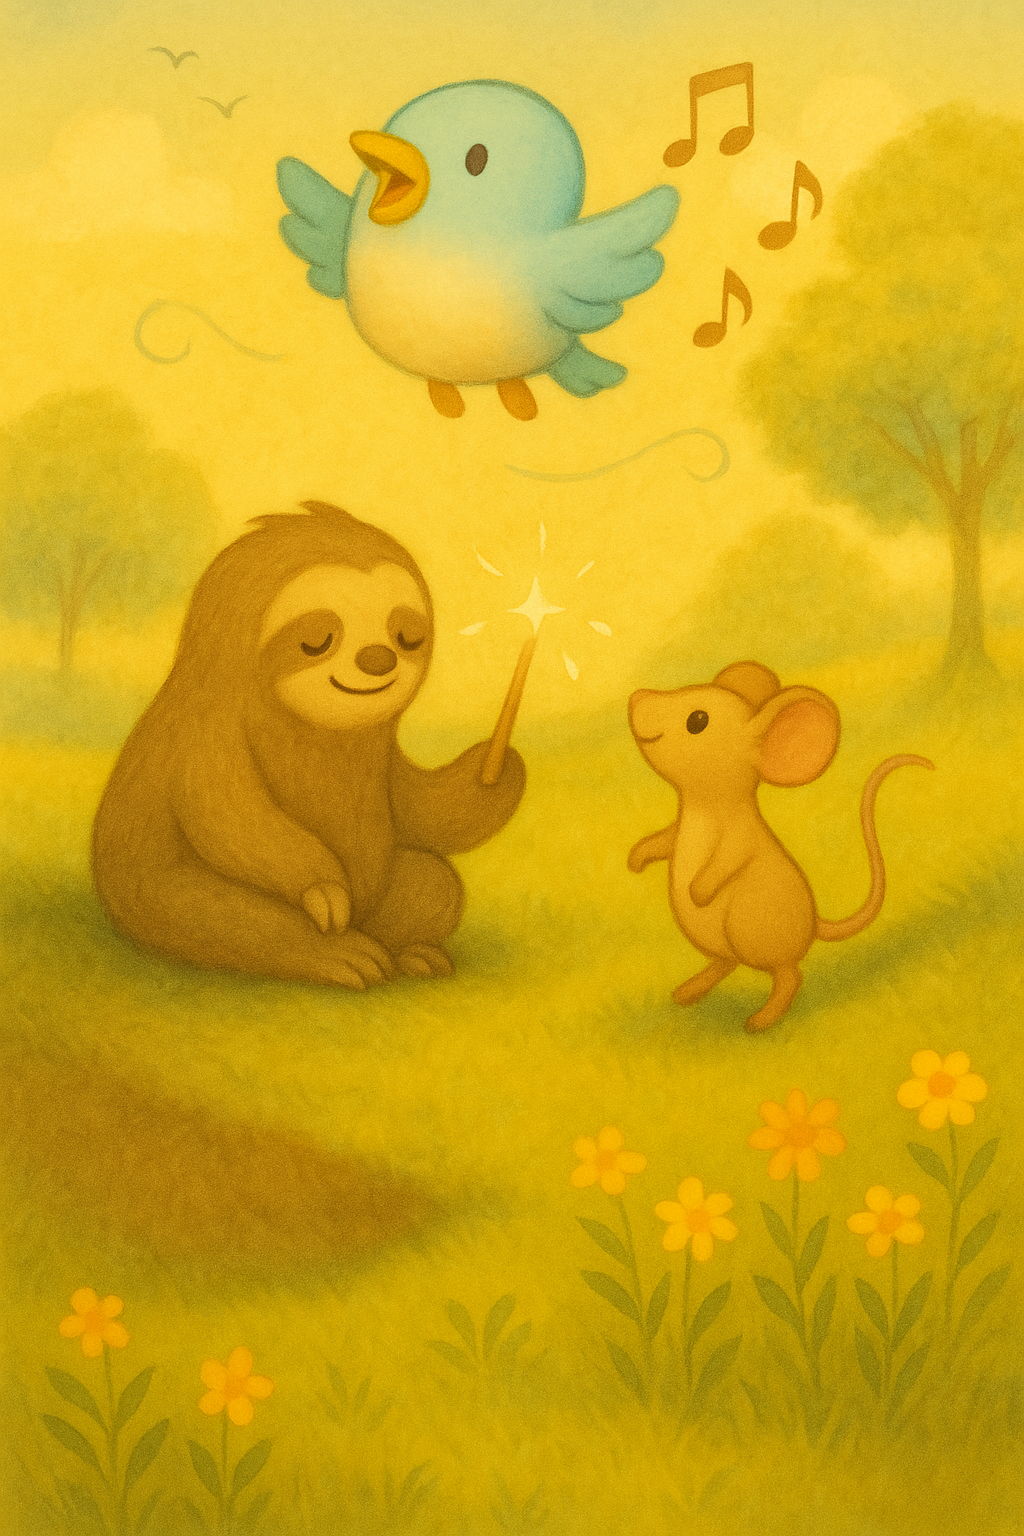
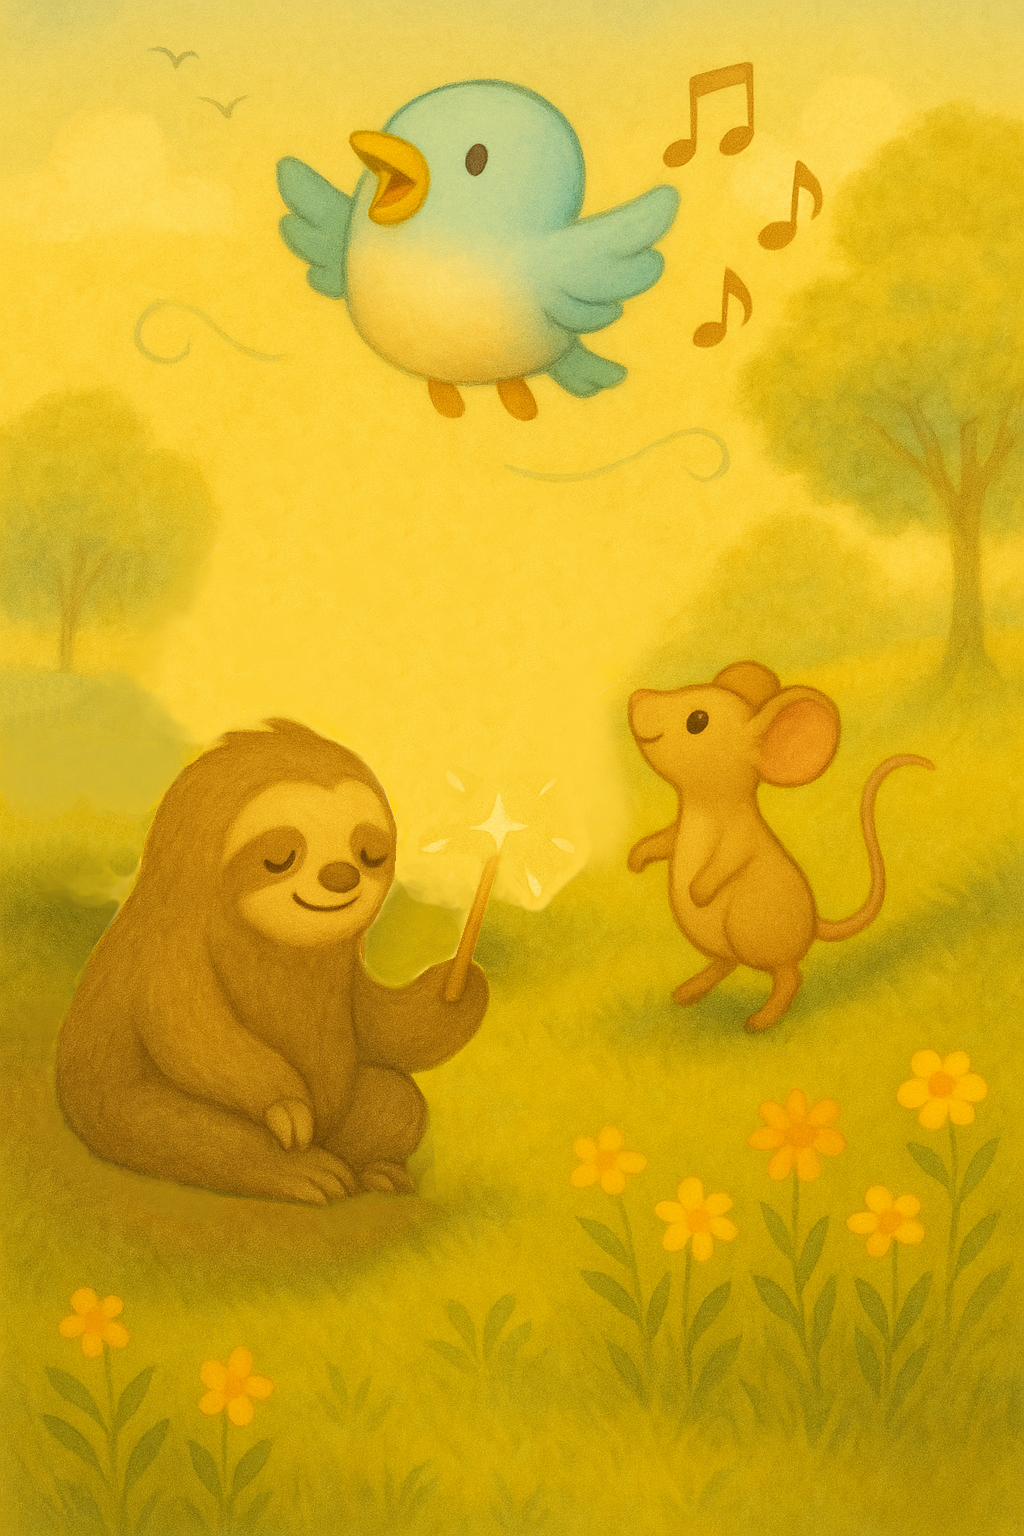
1_1: new sloth bg image

Changed region(s): [[0.0, 0.3125, 0.625, 0.7812], [0.4688, 0.3438, 0.5, 0.375]]

diff --git a/src/index.html b/src/index.html
@@ -288,7 +288,7 @@
         
         <!-- High or Low Activity -->
         <div id="1_1_pitches" x-show="mode === '1_1_pitches_high_or_low'" class="pitch-activity lazyload-bg" data-background-image="./images/backgrounds/pitches_action1_1_sloth_mouse.png" style="background-size: cover; background-position: top left;
-        background-image: url('./images/backgrounds/pitches_action1_1_sloth_mouse_small.jpg');
+        background-image: url('./images/backgrounds/pitches_action1_1_sloth_mouse.png');
         height: 100vh;
         width: 100%;
         background-size: 100% 100%;

diff --git a/dev/TODO.md b/dev/TODO.md
@@ -86,6 +86,8 @@ Dies soll in allen aktionen:
 
 - Hinweis: /var/www/Musici/android/app/src/main/java/com/lalumo/app/MainActivity.java verwendet oder überschreibt eine veraltete API.
 
+- "background-image: 1s ease" funktioniert noch nicht
+
 # nach kapitel
 1_1 "High or Low?" (1_1_pitches_high_or_low) 
 - wenn man noch nicht auf den play button gedrückt hat, soll einfach ein zufälliger hoher, bzw. tiefer ton kommen wenn man auf einen der buttons drckt
@@ -94,11 +96,8 @@ Dies soll in allen aktionen:
    - Lösche unnötige Melodie-Abspielfunktionen für die alte Aktivität
 
 1_3 Draw a melody:
-- Die buttons müssen abhängig von der viewport breite werden und mit der viewport breite wachsen
-- beim zeichnen ist in android der Strich zu weit links
 - bg: einen vogel zum spiel starten oben hin
 - die noten werden eierig im breiten screen
-- "background-image: 1s ease" funktioniert noch nicht
 
 1_4 does this sound right:
  - die animals dürfen sich nciht wiederholen, also es muss sich das letzte tier gemerkt werden, damit es nicht erneut ausgewählt wird im zufall
